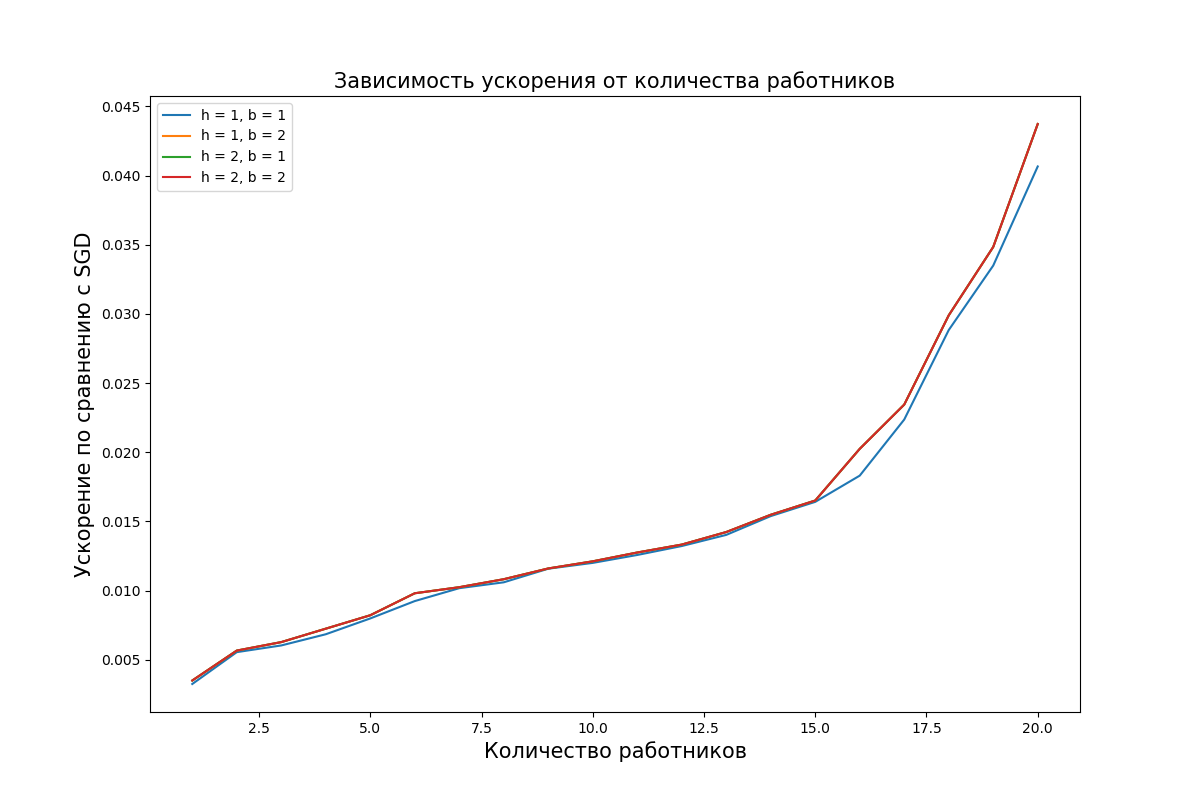
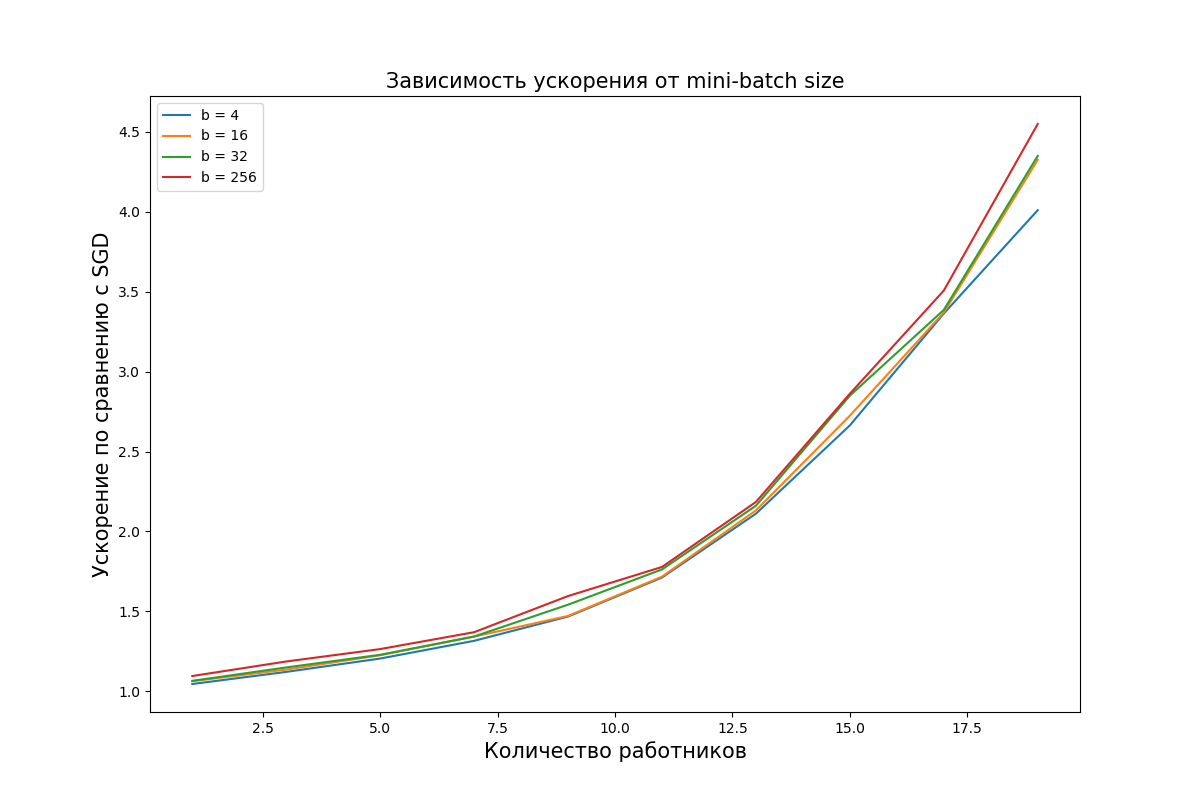
added

diff --git a/test.py b/test.py
@@ -1,4 +1,5 @@
 import argparse
+import json
 import functools
 import matplotlib.pyplot as plt
 import numpy as np
@@ -11,11 +12,14 @@ from numpy import loadtxt
 from scipy.optimize import minimize
 from simple_grad_descend import SGD
 
+V = 17
+
 ##########################
 
 dataset_name = input('Введи название для файла, хранящего датасет, например data.csv:\n')
 labels_name = input('Введи название для файла, хранящего целевую переменную, например labels.csv:\n')
 step = input('Размер датасета\n')
+
 repeat = input('Сколько раз повторять запуск алгоритма (результаты усредняются):\n')
 draw = int(input('Вы хотите получить рисунок? 0 = Нет, 1 = Да:\n'))
 
@@ -82,8 +86,17 @@ if draw == 1:
         size += step
 
     print(comparsion)
+
+    ##############################################
+
+    logs = json.load(open('logs.json'))
+    t = logs['algorithm_time']
+    v = logs['version']
+    ta = sorted([t[i] for i in range(len(v)) if v[i] == V])
+
     plt.figure(figsize=(12, 8))
     x = comparsion['size']
+    plt.plot(x, ta, label='LSGD')
     plt.plot(x, comparsion['bfgs'], label='BFGS')
     plt.plot(x, comparsion['sgd'], label='SGD')
     plt.plot(x, comparsion['nesterov'], label='Nesterov')

diff --git a/bs_draw.py b/bs_draw.py
@@ -6,7 +6,7 @@ import time
 from numpy import loadtxt
 from simple_grad_descend import SGD
 
-V = 11
+V = 20
 
 ##############################################
 
@@ -45,17 +45,17 @@ while i < len(ta):
     h2b2.append(ta[i])
     i += 1
 
-x = np.arange(1, 21, 1)
+x = np.arange(1, 21, 2)
 
 plt.figure(figsize=(12, 8))
 
-plt.plot(x, h1b1, label='h = 1, b = 1')
-plt.plot(x, h1b2, label='h = 1, b = 2')
-plt.plot(x, h1b2, label='h = 2, b = 1')
-plt.plot(x, h1b2, label='h = 2, b = 2')
+plt.plot(x, h1b1, label='b = 4')
+plt.plot(x, h1b2, label='b = 16')
+plt.plot(x, h2b1, label='b = 32')
+plt.plot(x, h2b2, label='b = 256')
 
 plt.xlabel('Количество работников', fontsize=15)
 plt.ylabel('Ускорение по сравнению с SGD', fontsize=15)
-plt.title("Зависимость ускорения от количества работников", fontsize=15)
+plt.title("Зависимость ускорения от mini-batch size", fontsize=15)
 plt.legend()
 plt.savefig('./img/test_bs_h')

diff --git a/temp/bs_test_sc_generator.py b/temp/bs_test_sc_generator.py
@@ -1,13 +1,13 @@
-for worker in range(21):
+for worker in range(1, 21, 2):
     print ("mpiexec --oversubscribe -n " + 
-        str(worker) + " python3 script.py -s " + 
-        str(1) + " -b " + str(1))
+        str(worker) + " python3 script.py --sync " + 
+        str(256) + " -b " + str(4))
     print ("mpiexec --oversubscribe -n " + 
-        str(worker) + " python3 script.py -s " + 
-        str(1) + " -b " + str(2))
+        str(worker) + " python3 script.py --sync " + 
+        str(256) + " -b " + str(16))
     print ("mpiexec --oversubscribe -n " + 
-        str(worker) + " python3 script.py -s " + 
-        str(2) + " -b " + str(1))
+        str(worker) + " python3 script.py --sync " + 
+        str(256) + " -b " + str(32))
     print ("mpiexec --oversubscribe -n " + 
-        str(worker) + " python3 script.py -s " + 
-        str(2) + " -b " + str(2))
+        str(worker) + " python3 script.py --sync " + 
+        str(256) + " -b " + str(256))
